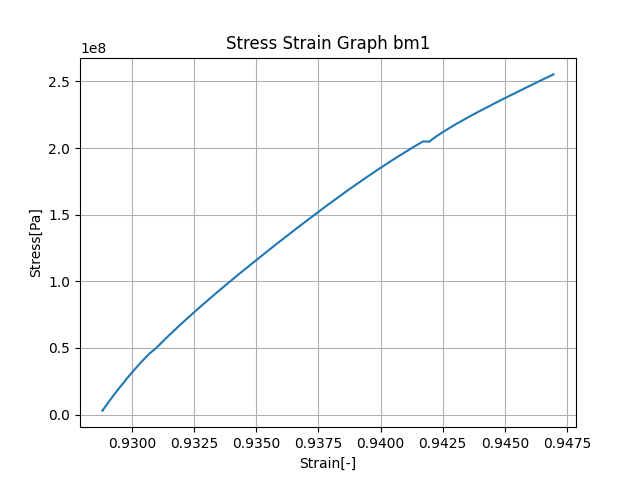
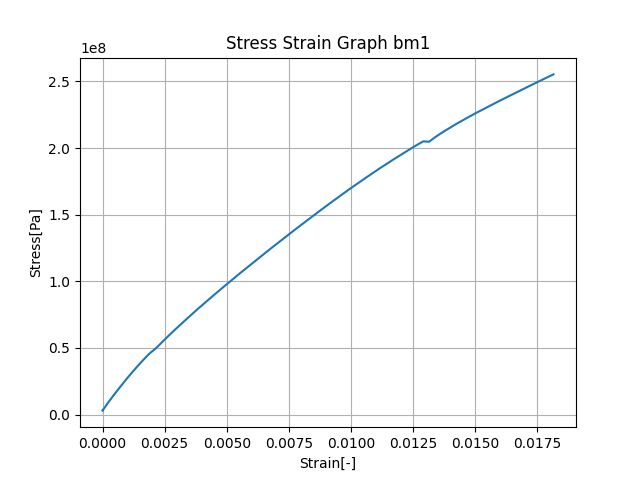
Final version, hopefully

Changed region(s): [[0.125, 0.9062, 0.9375, 0.9375]]

diff --git a/mainV3.py b/mainV3.py
@@ -6,7 +6,7 @@ import scipy
 import numpy as np
 import matplotlib.pyplot as plt
 from os import listdir
-from mainV2 import calculate_ult_tens, tangent_stiffness, calculate_toughness
+from mainV2 import calculate_ult_tens, tangent_stiffness, calculate_toughness, new_stiffness
 
 def one_plotter(list1, list2, name):
     if len(list1) != len(list2):
@@ -15,7 +15,9 @@ def one_plotter(list1, list2, name):
     #the colors below are the teal color palette Dennis is using
     #color_lst = ['#b5d1ae', '#80ae9a', '#568b87', '#1b485e', '#122740']
     #the colors below are a nice palette imho MG
-    color_lst = ['#a559aa', '#59a89c', '#f0c571', '#e02b35', '#082a54']
+    #color_lst = ['#a559aa', '#59a89c', '#f0c571', '#e02b35', '#082a54']
+    #the colors below are good for the color blind
+    color_lst = ['#E69F00', '#56B4E9', '#009E73', '#F0E442', '#0072B2']
     sig = name[17]
     if sig == '1':
         color = color_lst[0]
@@ -85,7 +87,7 @@ width20 = [12, 12.15, 12.1, 12.07]
 widthTNB = [11.97, 11.9, 11.91, 12.07]
 
 #clear the results file
-#open('Data\MolarChange\Results.txt', 'w').close()
+open('Data\MolarChange\Results.txt', 'w').close()
 
 for i in folders:
     listofdir = listdir(i)
@@ -233,8 +235,8 @@ for i in folders:
                         avg_stressTNB.append(stress[alen+p])
 
         #comment the following line and change to false if you don't want average graphs
-        averages()
-        averages_true = True
+        #averages()
+        averages_true = False
 
         #for plotting stress strain graph for each file uncomment below
         #bplot_graph2(strain, stress, file)
@@ -248,7 +250,7 @@ for i in folders:
         #    one_plotter(strain, stress, file)
         def results():
             ult_tens = calculate_ult_tens(stress)/(10**6)
-            youngs = tangent_stiffness(strain, stress)
+            youngs = new_stiffness(strain, stress)
             toughness = calculate_toughness(strain, stress)/(10**6)
             text_f = open('Data\MolarChange\Results.txt', 'a')
             text_f.write(file + '\n')
@@ -259,14 +261,16 @@ for i in folders:
             text_f.close()
         
         #before uncommenting below to see the results remeber to clear the file, uncomment line 88
-        #results()
+        results()
 
 
 if averages_true:
     #the colors below are the teal color palette Dennis is using
-    color_lst = ['#b5d1ae', '#80ae9a', '#568b87', '#1b485e', '#122740']
+    #color_lst = ['#b5d1ae', '#80ae9a', '#568b87', '#1b485e', '#122740']
     #the colors below are a nice palette imho MG
     #color_lst = ['#a559aa', '#59a89c', '#f0c571', '#e02b35', '#082a54']
+    #the colors below are good for the color blind
+    color_lst = ['#E69F00', '#56B4E9', '#009E73', '#F0E442', '#0072B2']
     label_lst = ['10mM', '20mM', '50mM', 'Treated, not biomineralized', 'Not treated']
     avg_strain10=np.array(avg_strain10)/4
     for i in range(len(avg_strain10)):
@@ -306,13 +310,13 @@ if averages_true:
 
     #comment or uncomment the following 5 lines depending on what you would like the graph to look like
     plt.plot(avg_strain10, avg_stress10, label = label_lst[0], color = color_lst[0])
-    #plt.plot(avg_strain20, avg_stress20, label = label_lst[1], color = color_lst[1])
-    #plt.plot(avg_strain50, avg_stress50, label = label_lst[2], color = color_lst[2])
-    #plt.plot(avg_strainTNB, avg_stressTNB, label = label_lst[3], color = color_lst[3])
+    plt.plot(avg_strain20, avg_stress20, label = label_lst[1], color = color_lst[1])
+    plt.plot(avg_strain50, avg_stress50, label = label_lst[2], color = color_lst[2])
+    plt.plot(avg_strainTNB, avg_stressTNB, label = label_lst[3], color = color_lst[3])
     plt.plot(avg_strainNBM, avg_stressNBM, label = label_lst[4], color = color_lst[4])
     plt.xlabel('Strain[-]')
     plt.ylabel('Stress[Pa]')
-    plt.title('Stress Strain Graph Averages')
+    plt.title('Stress Strain Graph Averages for Compression')
     plt.grid(True)
     plt.legend(loc ="lower right", ncol = 2)
     plt.savefig('Averages')

diff --git a/mainV2.py b/mainV2.py
@@ -67,7 +67,6 @@ A = 0.015*t/1000#m^2
 original_l = 0.14 #m
 stress = []
 strain = []
-
 for j in range(len(deformation)):
   strain.append((deformation[j]-Compliance_funct(force[j]))/(original_l*1000))
   stress.append(force[j]/(A))
@@ -75,8 +74,10 @@ mstrain = min(strain)
 mstrain = abs(mstrain)
 for k in range(len(strain)):
   strain[k] = strain[k]+mstrain
-
-#for plotting stress strain grph
+zero_strain = strain[0]
+for i in range(len(strain)):
+  strain[i]-=zero_strain
+#for plotting stress strain graph
 bplot_graph(strain, stress, file, ftype)
 
 
@@ -117,7 +118,7 @@ def tangent_stiffness(strain, stress):
     plt.savefig('Tangents' +'.png')
   #tanplot()
   max_tan = max(tangent_lines)/(10**9)#convert to GPa
-
+  
   #for plotting the Young's modulus to make sure it makes sense
   def sanity_check():
     sanity=[]
@@ -140,8 +141,38 @@ def calculate_toughness(strain, stress):
   area = np.trapz(stress,strain)
   return area
 
+def new_stiffness(strain, stress):
+  in_strain = strain[0]
+  fi_strain = in_strain+0.003
+  dx = fi_strain-in_strain
+  #activate for tension
+  def double_checker():
+    for i in range(len(strain)):
+      for j in range(i):
+        if strain[i]==strain[j]:
+          strain[i]+=0.0000000001
+    return(strain)
+  strain = double_checker()
+  stress_funct = interpolate.interp1d(strain, stress, kind='cubic', fill_value='extrapolate')
+  in_stress = stress[0]
+  fi_stress = stress_funct(fi_strain)
+  dy = fi_stress-in_stress
+  E = (dy/dx)/(10**9)
+  def sanity_check():
+    sanity=[]
+    for i in range(len(strain)-1):
+      sanity.append(E*(10**9)*strain[i])
+    tot_len = int(((len(strain)/3)+1))
+    plt.plot(strain[11:tot_len], sanity[10:tot_len-1])
+    plt.plot(strain, stress)
+    plt.xlabel('Strain[-]')
+    plt.ylabel('Young\'s Modulus [Pa]')
+    plt.title('Young\'s Modulus Strain Graph')
+    plt.grid(True)
+    plt.savefig('Sanity' +'.png')
+  #sanity_check()
+  return(E)
 
-
-#print('Youngs modulus = ', tangent_stiffness(strain, stress))
+print('Youngs modulus = ', new_stiffness(strain, stress))
 #print('Ult tens = ', calculate_ult_tens(stress)/(10**6))
 #print('Toughness = ', calculate_toughness(strain, stress)/1000000)
